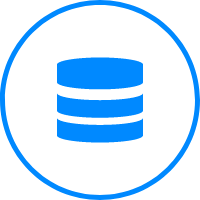
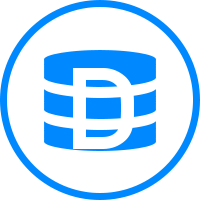
更改图标

diff --git a/src/app/tabs/device-service/service-image/service-image.component.html b/src/app/tabs/device-service/service-image/service-image.component.html
@@ -32,7 +32,7 @@
               <table style="border:0">
                 <tr>
                   <th  align="right" >
-                    <img *ngIf="toBoolean(item.opcstate)" src="../../../../assets/src/service-up.png" style="width: 50px; align-self: center;"alt="database" />
+                    <img *ngIf="toBoolean(item.opcstate)" src="../../../../assets/src/service-up.gif" style="width: 50px; align-self: center;"alt="database" />
                     <img *ngIf="!toBoolean(item.opcstate)" src="../../../../assets/src/service-down.png" style="width: 50px; align-self: center;"alt="database" />
                   </th>
                   <td align="left" colspan="2"><span style="margin-left: 10px;">{{item.servername}}</span></td>

diff --git a/src/app/tabs/data-mgr/data-image/db-mgr.component.html b/src/app/tabs/data-mgr/data-image/db-mgr.component.html
@@ -36,7 +36,7 @@
             <table style="border:0">
               <tr>
                 <th  align="right" >
-                  <img *ngIf="(item.state>0)" src="../../../../assets/src/database-up.png" style="width: 50px; align-self: center;"alt="database" />
+                  <img *ngIf="(item.state>0)" src="../../../../assets/src/database-up.gif" style="width: 50px; align-self: center;"alt="database" />
                   <img *ngIf="!(item.state>0)" src="../../../../assets/src/database-down.png" style="width: 50px; align-self: center;"alt="database" />
                 </th>
                 <td align="left" colspan="2" ><span style="margin-left: 10px;">{{item.servername}}</span></td>
